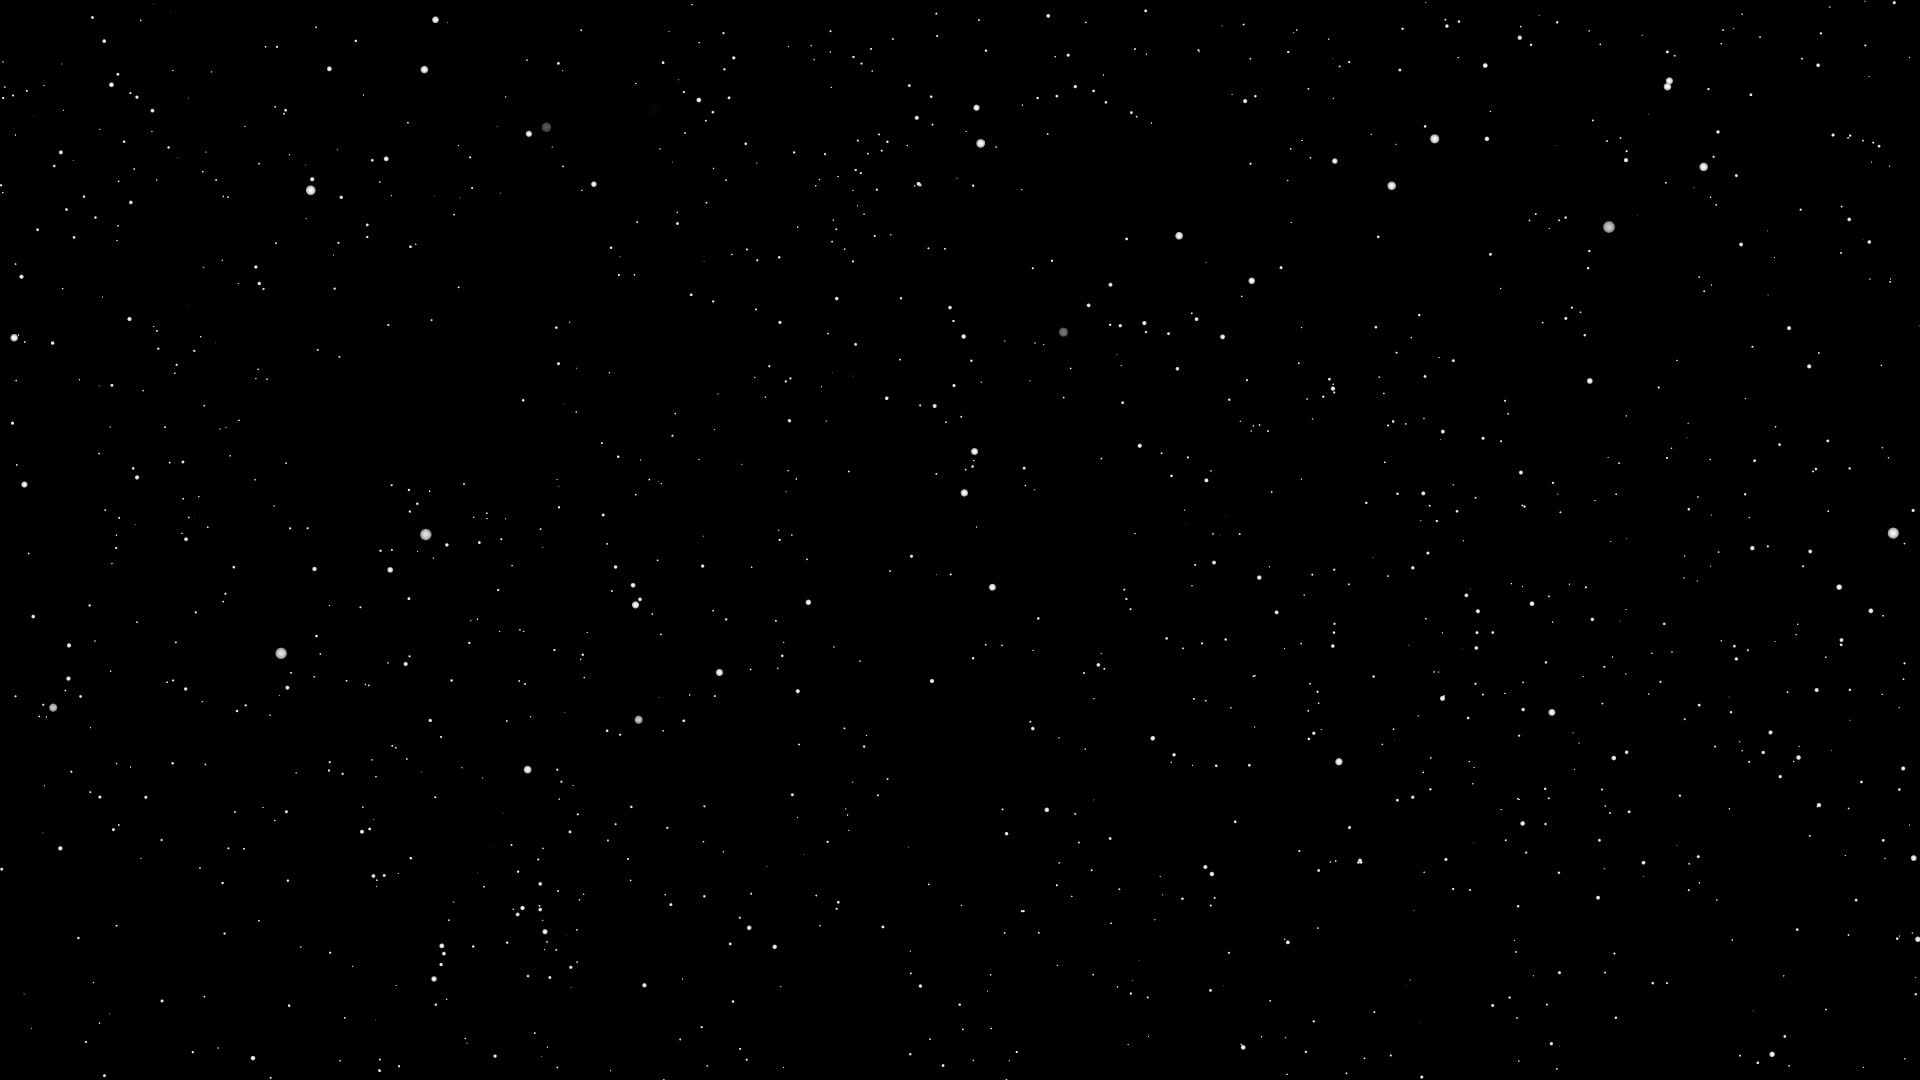
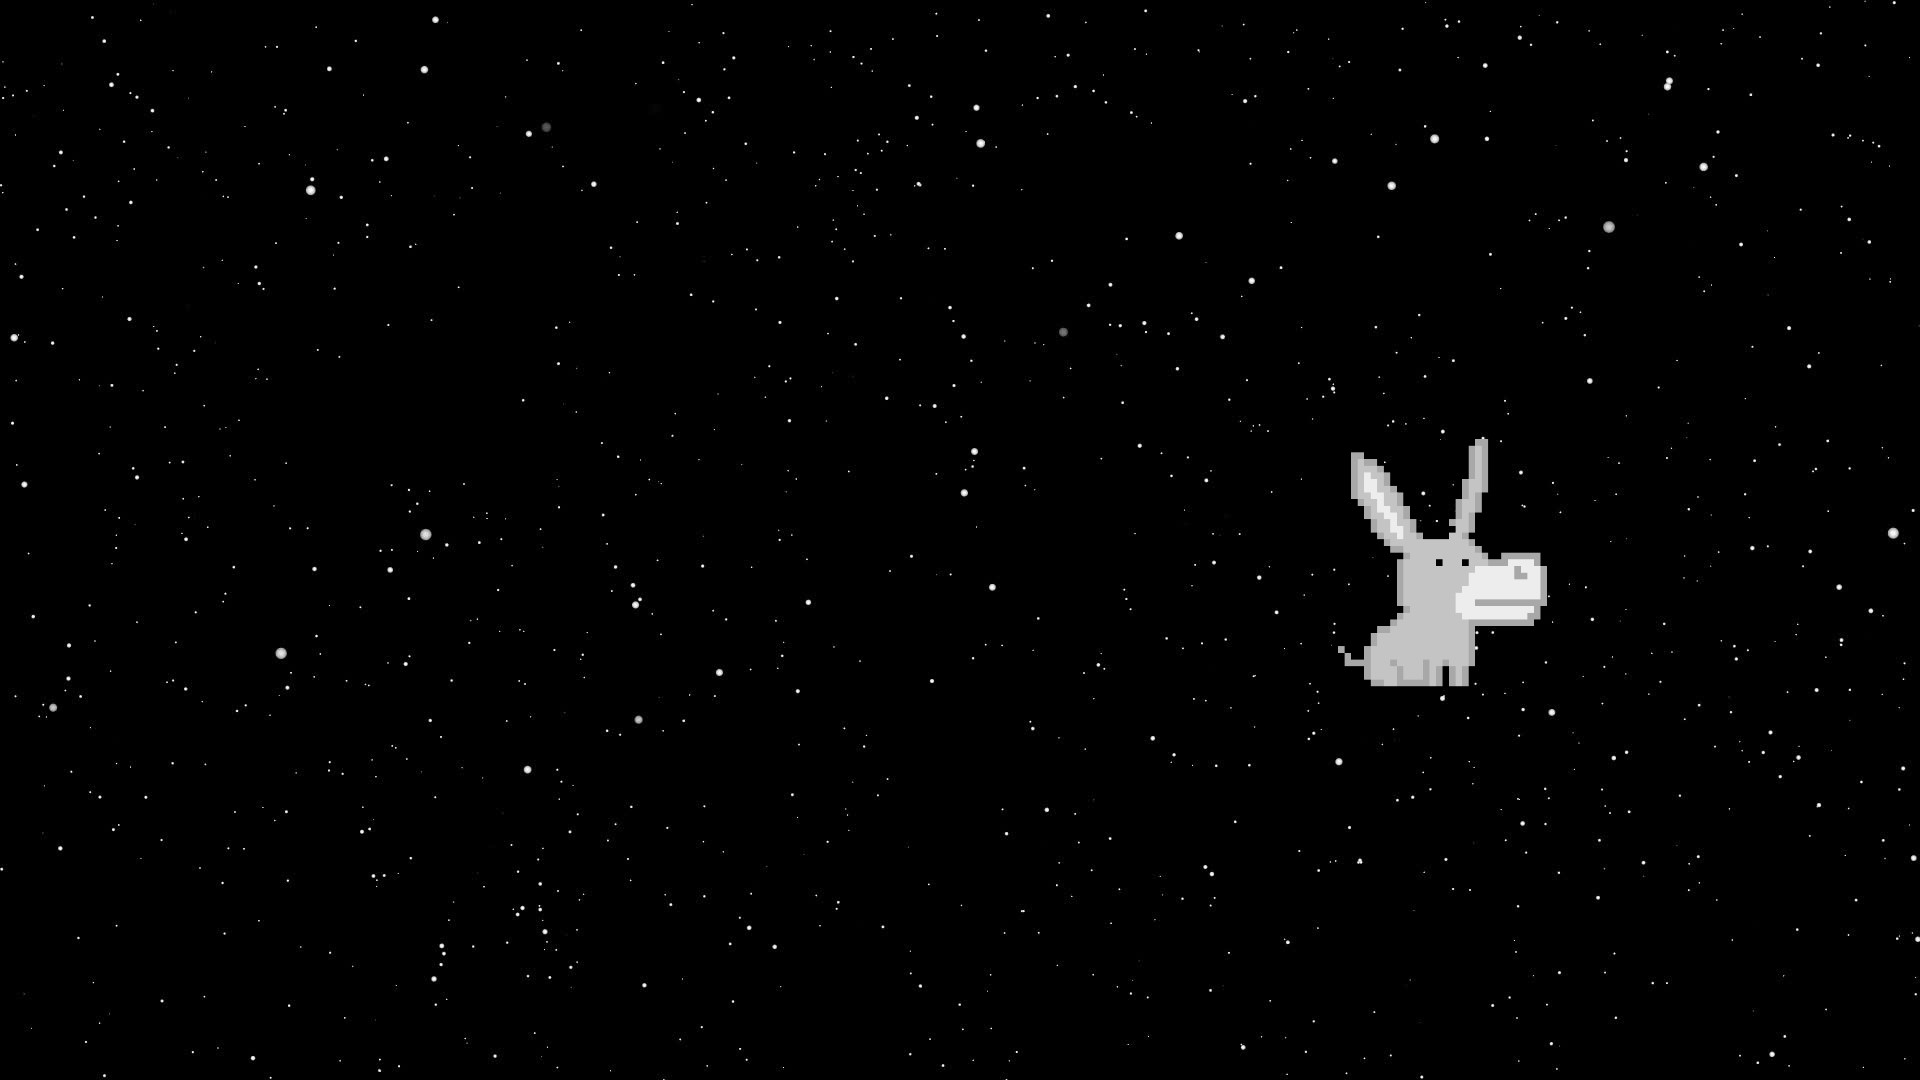
css issues

Changed region(s): [[0.6875, 0.3972, 0.8125, 0.6417]]

diff --git a/src/pages/index.js b/src/pages/index.js
@@ -17,19 +17,19 @@ const Home = () => {
         </div>
         <div>
           <StaticImage className={jpeg} src="../images/galaxy-animation/space.jpg" alt="Space" height={1100} width={1100} />
-          <StaticImage className={donkeyFace} src="../images/galaxy-animation/donkey-face.png" alt="Donkey-Face" placeholder="blurred" />
+          {/*<StaticImage className={donkeyFace} src="../images/galaxy-animation/donkey-face.png" alt="Donkey-Face" placeholder="blurred" height={150} width={150}/>
           <StaticImage className={js} src="../images/galaxy-animation/js.png" alt="JavaScript" placeholder="blurred" />
           <StaticImage className={css} src="../images/galaxy-animation/css.jpg" alt="CSS" placeholder="blurred" />
           <StaticImage className={html} src="../images/galaxy-animation/html.png" alt="HTML" placeholder="blurred" />
           <StaticImage className={php} src="../images/galaxy-animation/php.png" alt="PHP" placeholder="blurred" />
           <StaticImage className={laravel} src="../images/galaxy-animation/laravel.png" alt="Laravel" placeholder="blurred" />
-          <StaticImage className={node} src="../images/galaxy-animation/node.png" alt="Node" placeholder="blurred" />
+          <StaticImage className={node} src="../images/galaxy-animation/node.png" alt="Node" placeholder="blurred" />¨*/}
         </div>
         <p></p>
       </section>
     </Layout>
   )
-  
+
 }
 
 export default Home

diff --git a/src/styles/404.module.css b/src/styles/404.module.css
@@ -19,14 +19,14 @@
 }
 
 .tumbleweed {
-    position: absolute;
+    position: relative;
     top: 60%;
     animation: rollingTumbleweed 10s infinite linear;
     width: 100%;
 }
 
 .tumbleweedTwo {
-  position: absolute;
+  position: relative;
   top: 70%;
   animation: rollingTumbleweedTwo 10s infinite linear;
   width: 100%;
@@ -34,7 +34,7 @@
 
 @keyframes donkeyRotate{
     0%{
-      left:-100px;
+      left:-450px;
     }
     25%{
       top:25%;
@@ -49,14 +49,14 @@
       transform:rotate(30deg);
     }
     100%{
-      left:110%;
+      left:130%;
       transform:rotate(45deg);
     }
 }
 
 @keyframes rollingTumbleweed{
     0%{
-      left:-100px;
+      left:-450px;
     }
     25%{
       transform:rotate(45deg);
@@ -68,14 +68,14 @@
       transform:rotate(135deg);
     }
     100%{
-      left:110%;
+      left:130%;
       transform:rotate(180deg);
     }
 }
 
 @keyframes rollingTumbleweedTwo{
   0%{
-    right:-100px;
+    right:-1350px;
   }
   25%{
     transform:rotate(45deg);
@@ -87,7 +87,7 @@
     transform:rotate(135deg);
   }
   100%{
-    right:110%;
+    right:130%;
     transform:rotate(180deg);
   }
 }

diff --git a/src/components/Layout.js b/src/components/Layout.js
@@ -5,7 +5,7 @@ import '../styles/global.css'
 
 const Layout = ({ children }) => {
 
-    const data = useStaticQuery(graphql`
+  const data = useStaticQuery(graphql`
     query SiteInfoCopy {
         site {
           siteMetadata {
@@ -14,19 +14,19 @@ const Layout = ({ children }) => {
         }
       }`)
 
-    const { copyright } = data.site.siteMetadata
+  const { copyright } = data.site.siteMetadata
 
-    return (
-        <div className="layout">
-            <Navbar />
-            <div className="content">
-                {children}
-            </div>
-            <footer>
-                <p>{copyright}</p>
-            </footer>
-        </div>
-    )
+  return (
+    <div className="layout">
+      <Navbar />
+      <div className="content">
+        {children}
+      </div>
+      <footer>
+        <p>{copyright}</p>
+      </footer>
+    </div>
+  )
 }
 
 export default Layout

diff --git a/src/styles/home.module.css b/src/styles/home.module.css
@@ -85,13 +85,11 @@
     border: 5px solid rgba(116, 100, 11, 0.692);
     box-shadow: 0px 0px 0 3px black;
 }
-
+/*
 .donkeyFace {
     position: absolute;
-    left: 1235px;
-    top: 370px;
-    width: 90px;
-    height: 90px;
+    top: 35%;
+    left: 62%;
 }
 
 .js {
@@ -148,6 +146,7 @@
     animation: nodeOrbit 5.88s linear infinite;
 }
 
+
 @keyframes phpOrbit {
     from {
         transform: rotate(0deg) translateX(100px) rotate(0deg);
@@ -196,3 +195,4 @@
         transform: rotate(-360deg) translateX(250px) translateY(120px) rotate(360deg);
     }
 }
+*/

diff --git a/src/templates/project-details.js b/src/templates/project-details.js
@@ -20,7 +20,7 @@ const ProjectDetails = ({ data }) => {
         </div>
         <div className={text} dangerouslySetInnerHTML={{ __html: html }} />
       </div>
-
+      <hr />
     </Layout>
   )
 }

diff --git a/src/projects/portfolio.md b/src/projects/portfolio.md
@@ -20,3 +20,5 @@ Aplicação simples com o desígnio simples de mostrar os projectos realizados p
 # Veredicto
 
 Projecto altamente inspirado pelos vídeos do Net Ninja no YouTube, referência <a href="https://www.youtube.com/watch?v=Qms4k6y7OgI&list=PL4cUxeGkcC9hw1g77I35ZivVLe8k2nvjB">**aqui**</a>. 
+
+Algumas animações CSS desarranjaram-se na transição entre desenvolvimento e produção, aquando da hospedagem do portfólio no Netlify. A rever.

diff --git a/src/projects/angular-library.md b/src/projects/angular-library.md
@@ -20,8 +20,3 @@ Elaboração de uma página recorrendo à framework Angular, na versão 10, prev
 # Veredicto
 
 Este projecto é, no fundo, uma relíquia, incluindo-se aqui por dever bibliográfico. Apresenta falhas e omissões, intocada desde então por ser, aos olhos do seu autor, matéria radioactiva.
-
-
-
-
-
